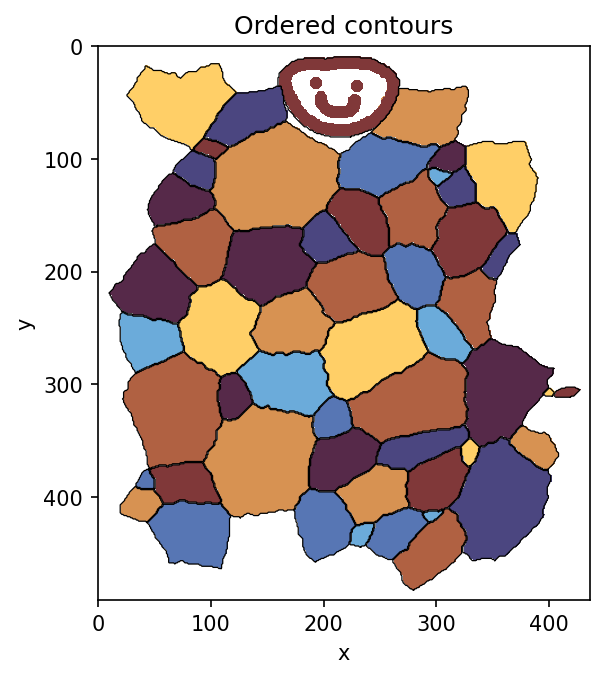
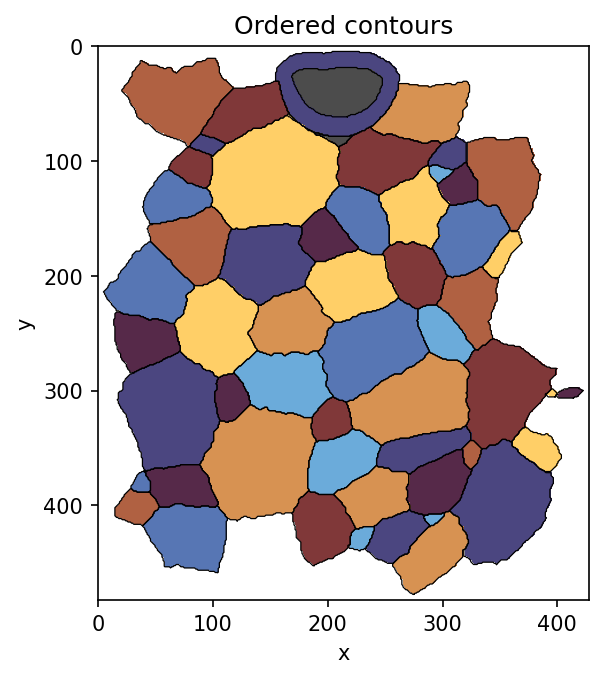
Moved to the loading function that pre-processes the label image in all examples.

diff --git a/examples/03_junctions_and_contours.py b/examples/03_junctions_and_contours.py
@@ -33,8 +33,7 @@ def save_figure(fig, filename: str) -> Path:
 
 
 def main() -> list[Path]:
-    labels = lit.load_label_image(SAMPLE_PATH)
-    labels, _ = lit.crop_to_foreground_bbox(labels, background=BACKGROUND, padding=10)
+    labels = lit.load_image_pipeline(SAMPLE_PATH)
     junction_label_image, junctions = lit.junctions_from_labels(
         labels,
         background=BACKGROUND,

diff --git a/README.md b/README.md
@@ -31,15 +31,18 @@ python -m pytest
 
 ## Load and preprocess labels
 
-Use these helpers directly from scripts or notebooks.
+Use these helpers directly from scripts or notebooks. The intended starting
+point is `load_image_pipeline(...)`: with its defaults, it crops foreground,
+removes disconnected bits of repeated labels, and fills internal gaps. This
+prepares the image so labels are clean, self-connected, unique regions that are
+ready for adjacency, contour, and junction operations, with neighboring labels
+touching across filled internal gaps rather than being separated by stray
+background holes.
 
 ```python
 import labelimage_tools as lit
 
-labels = lit.load_label_image("segmentation.tif")
-labels = lit.dilate_labels(labels, structure=3, background=0, background_only=True)
-labels = lit.fill_internal_gaps_edt(labels, background=0, max_distance=3)
-labels, crop_slices = lit.crop_to_foreground_bbox(labels, background=0, padding=20)
+labels = lit.load_image_pipeline("segmentation.tif")
 ```
 
 ## Adjacency and contact graph
@@ -119,6 +122,8 @@ workflows and embeds the generated images.
 Graph-colored label image using the cyclic `managua` colormap:
 
 ```python
+labels = lit.load_image_pipeline("samples/test_cells2D.tif")
+
 fig, ax = lit.plot_label_image(
     labels,
     use_graph_coloring=True,
@@ -135,6 +140,7 @@ fig, ax = lit.plot_label_image(
 Detected junctions:
 
 ```python
+labels = lit.load_image_pipeline("samples/test_cells2D.tif")
 junction_label_image, junctions = lit.junctions_from_labels(
     labels,
     background=0,
@@ -150,6 +156,7 @@ lit.plot_junctions(junctions=junctions, junction_mask=junction_label_image > 0, 
 Ordered contours:
 
 ```python
+labels = lit.load_image_pipeline("samples/test_cells2D.tif")
 contours = lit.ordered_contours_from_labels(labels, background=0)
 fig, ax = lit.plot_label_image(labels, cmap="managua", cyclic_cmap=True)
 lit.plot_contours(labels, ax=ax, background=0, color="black", linewidth=0.6)

diff --git a/docs/cookbook.md b/docs/cookbook.md
@@ -17,8 +17,11 @@ Core snippet:
 ```python
 import labelimage_tools as lit
 
-labels = lit.load_label_image("samples/test_cells2D.tif")
-labels, _ = lit.crop_to_foreground_bbox(labels, background=0, padding=10)
+# The default pipeline crops foreground, removes disconnected fragments,
+# and fills internal gaps so labels are clean, self-connected, unique regions
+# ready for adjacency, contour, and junction operations. Neighboring labels
+# touch across filled internal gaps instead of being separated by stray holes.
+labels = lit.load_image_pipeline("samples/test_cells2D.tif")
 
 fig, ax = lit.plot_label_image(
     labels,
@@ -49,6 +52,8 @@ python examples/02_preprocessing_gallery.py
 Core snippet:
 
 ```python
+labels = lit.load_image_pipeline("samples/test_cells2D.tif")
+
 eroded = lit.erode_labels(labels, structure=3, background=0)
 dilated = lit.dilate_labels(labels, structure=3, background=0, background_only=True)
 interior = lit.skeletonize_labels(labels, background=0, kind="interior")
@@ -82,6 +87,8 @@ python examples/03_junctions_and_contours.py
 Core snippet:
 
 ```python
+labels = lit.load_image_pipeline("samples/test_cells2D.tif")
+
 junction_label_image, junctions = lit.junctions_from_labels(
     labels,
     background=0,
@@ -99,6 +106,8 @@ lit.plot_junctions(junctions=junctions, junction_mask=junction_label_image > 0, 
 Contours are returned in image-coordinate order `(y, x)`. The plotting helper converts them to matplotlib display coordinates when drawing.
 
 ```python
+labels = lit.load_image_pipeline("samples/test_cells2D.tif")
+
 contours = lit.ordered_contours_from_labels(labels, background=0)
 fig, ax = lit.plot_label_image(labels, cmap="managua", cyclic_cmap=True)
 lit.plot_contours(labels, ax=ax, background=0, color="black", linewidth=0.6)